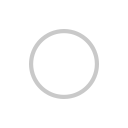
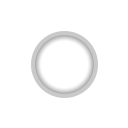
Added pinwheel to noisemaker window previews.

Changed region(s): [[0.2188, 0.2188, 0.7812, 0.7812]]

diff --git a/Assets/Plugins/3rdParty/LunraGames/NoiseMaker/Editor/Scripts/NoiseMakerWindow.cs b/Assets/Plugins/3rdParty/LunraGames/NoiseMaker/Editor/Scripts/NoiseMakerWindow.cs
@@ -51,11 +51,12 @@ namespace LunraGames.NoiseMaker
 		Node ConnectingTo;
 		Dictionary<string, bool> ShownCategories = new Dictionary<string, bool>();
 		int PreviewSelected;
-		Dictionary<string, Action<Node, Rect>> Previews;
+		Dictionary<string, Action<Node, Rect, int>> Previews;
 		long PreviewLastUpdated;
 		Texture2D PreviewTexture;
 		Mesh PreviewMesh;
 		Editor PreviewObjectEditor;
+		bool PreviewUpdating;
 
 		[MenuItem ("Window/Lunra Games/Noise Maker/Editor")]
 		static void Init () 
@@ -469,7 +470,7 @@ namespace LunraGames.NoiseMaker
 					{
 						if (Previews == null) 
 						{
-							Previews = new Dictionary<string, Action<Node, Rect>> {
+							Previews = new Dictionary<string, Action<Node, Rect, int>> {
 								{ "Flat", DrawFlatPreview },
 								{ "Sphere", DrawSpherePreview },
 								{ "Elevation", DrawElevationPreview }
@@ -484,6 +485,7 @@ namespace LunraGames.NoiseMaker
 								if (GUILayout.Button(keys[i], i == PreviewSelected ? Styles.PreviewToolbarSelected : Styles.PreviewToolbar) && PreviewSelected != i) 
 								{
 									// When previews change, we reset any cached info.
+									PreviewUpdating = false;
 									PreviewSelected = i;
 									PreviewLastUpdated = 0L;
 									PreviewObjectEditor = null;
@@ -511,7 +513,16 @@ namespace LunraGames.NoiseMaker
 								GUILayout.EndHorizontal();
 								GUILayout.FlexibleSpace();
 							}
-							else Previews[keys[PreviewSelected]](rootNode, new Rect(0f, 0f, previewArea.width, previewArea.height));
+							else 
+							{
+								Previews[keys[PreviewSelected]](rootNode, new Rect(0f, 0f, previewArea.width, previewArea.height), PreviewSelected);
+
+								if (PreviewUpdating)
+								{
+									Pinwheel.Draw(new Vector2(previewArea.width * 0.5f, previewArea.height * 0.5f));
+									Repaint();
+								}
+							}
 						}
 						GUILayout.EndArea();
 						GUILayout.FlexibleSpace();
@@ -529,7 +540,7 @@ namespace LunraGames.NoiseMaker
 		/// </summary>
 		/// <param name="node">Node to draw, typically the root.</param>
 		/// <param name="area">Area the editor should take up.</param>
-		void DrawFlatPreview(Node node, Rect area)
+		void DrawFlatPreview(Node node, Rect area, int index)
 		{
 			var lastUpdate = NodeEditor.LastUpdated(node.Id);
 			// todo: remove these duplicate update checks.
@@ -564,7 +575,7 @@ namespace LunraGames.NoiseMaker
 		/// </summary>
 		/// <param name="node">Node to draw, typically the root.</param>
 		/// <param name="area">Area the editor should take up.</param>
-		void DrawSpherePreview(Node node, Rect area)
+		void DrawSpherePreview(Node node, Rect area, int index)
 		{
 			// Reset mesh, incase another preview has modified it.
 			NoiseMakerConfig.Instance.Ico4Vertex.GetComponent<MeshFilter>().sharedMesh = NoiseMakerConfig.Instance.Ico4VertexMesh;
@@ -574,7 +585,8 @@ namespace LunraGames.NoiseMaker
 			// Check if node has been updated since the last time we had drawn it.
 			if (lastUpdate != PreviewLastUpdated) 
 			{
-				PreviewTexture = GetSphereTexture(node.GetModule(Graph.Nodes));
+				PreviewUpdating = true;
+				PreviewTexture = GetSphereTexture(node.GetModule(Graph.Nodes), completed: () => PreviewUpdating = PreviewSelected == index ? false : PreviewUpdating);
 
 				PreviewLastUpdated = lastUpdate;
 
@@ -599,7 +611,7 @@ namespace LunraGames.NoiseMaker
 		/// </summary>
 		/// <param name="node">Node to draw, typically the root.</param>
 		/// <param name="area">Area the editor should take up.</param>
-		void DrawElevationPreview(Node node, Rect area)
+		void DrawElevationPreview(Node node, Rect area, int index)
 		{
 			var lastUpdate = NodeEditor.LastUpdated(node.Id);
 			// todo: remove these duplicate update checks.
@@ -625,7 +637,8 @@ namespace LunraGames.NoiseMaker
 				}
 				PreviewMesh.vertices = newVerts;
 
-				PreviewTexture = GetSphereTexture(module);
+				PreviewUpdating = true;
+				PreviewTexture = GetSphereTexture(module, completed: () => PreviewUpdating = PreviewSelected == index ? false : PreviewUpdating);
 
 				PreviewLastUpdated = lastUpdate;
 
@@ -665,7 +678,6 @@ namespace LunraGames.NoiseMaker
 			var result = existing == null || existing.width != width || existing.height != width * 2 ? new Texture2D(width, width * 2) : existing;
 
 			var sphere = new Sphere(module);
-			sphere.GetValue(0.0, 0.0);
 			var resultWidth = result.width;
 			var resultHeight = result.height;
 			var unmodifiedMap = map;
@@ -680,25 +692,6 @@ namespace LunraGames.NoiseMaker
 						{
 							var lat = SphereUtils.GetLatitude(y, resultHeight);
 							var lon = SphereUtils.GetLongitude(x, resultWidth);
-							/*
-							// We do this try catch to avoid an issue with unity recompiling and causing weird serialization problems and spamming errors.
-							float? value = null;
-							int tries = 0;
-							while (value == null && tries < 3)
-							{
-								try { value = (float)sphere.GetValue((double)lat, (double)lon); }
-								catch 
-								{
-									value = null;
-									tries++;
-									Thread.Sleep(20);
-								}
-								tries++;
-							}
-							if (value == null) throw new InvalidOperationException("Something went wrong trying to access the value of a sphere.");
-							pixels[(resultWidth * y) + x] = unmodifiedMap == null ? NodeEditor.Previewer.Calculate(value.Value, NodeEditor.Previewer) : unmodifiedMap.GetColor(lat, lon, value.Value);
-							*/
-							if (sphere == null) Debug.Log("sphere is null?");
 							var value = (float)sphere.GetValue((double)lat, (double)lon);
 							var index = (resultWidth * y) + x;
 							pixels[index] = unmodifiedMap == null ? NodeEditor.Previewer.Calculate(value, NodeEditor.Previewer) : unmodifiedMap.GetColor(lat, lon, value);
